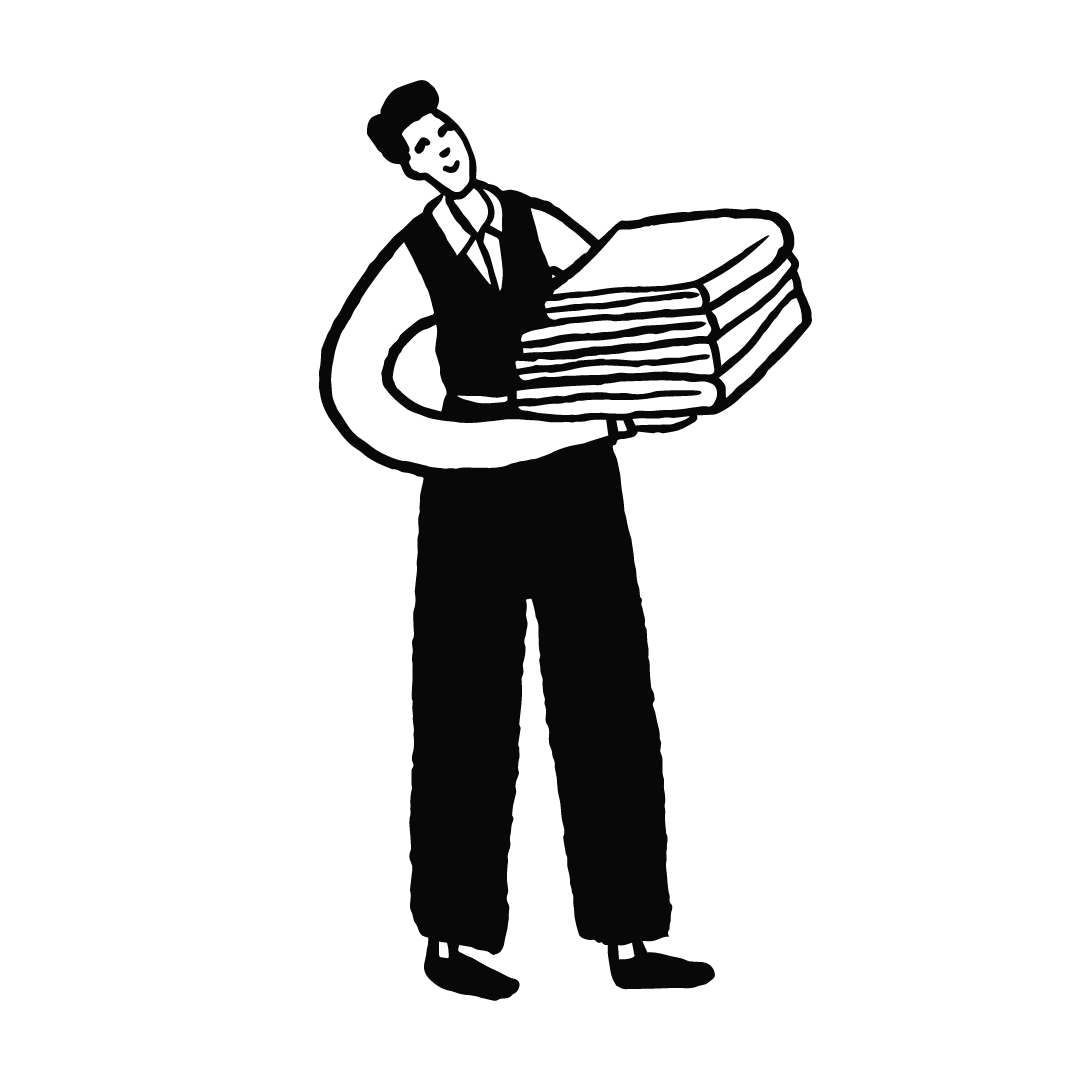
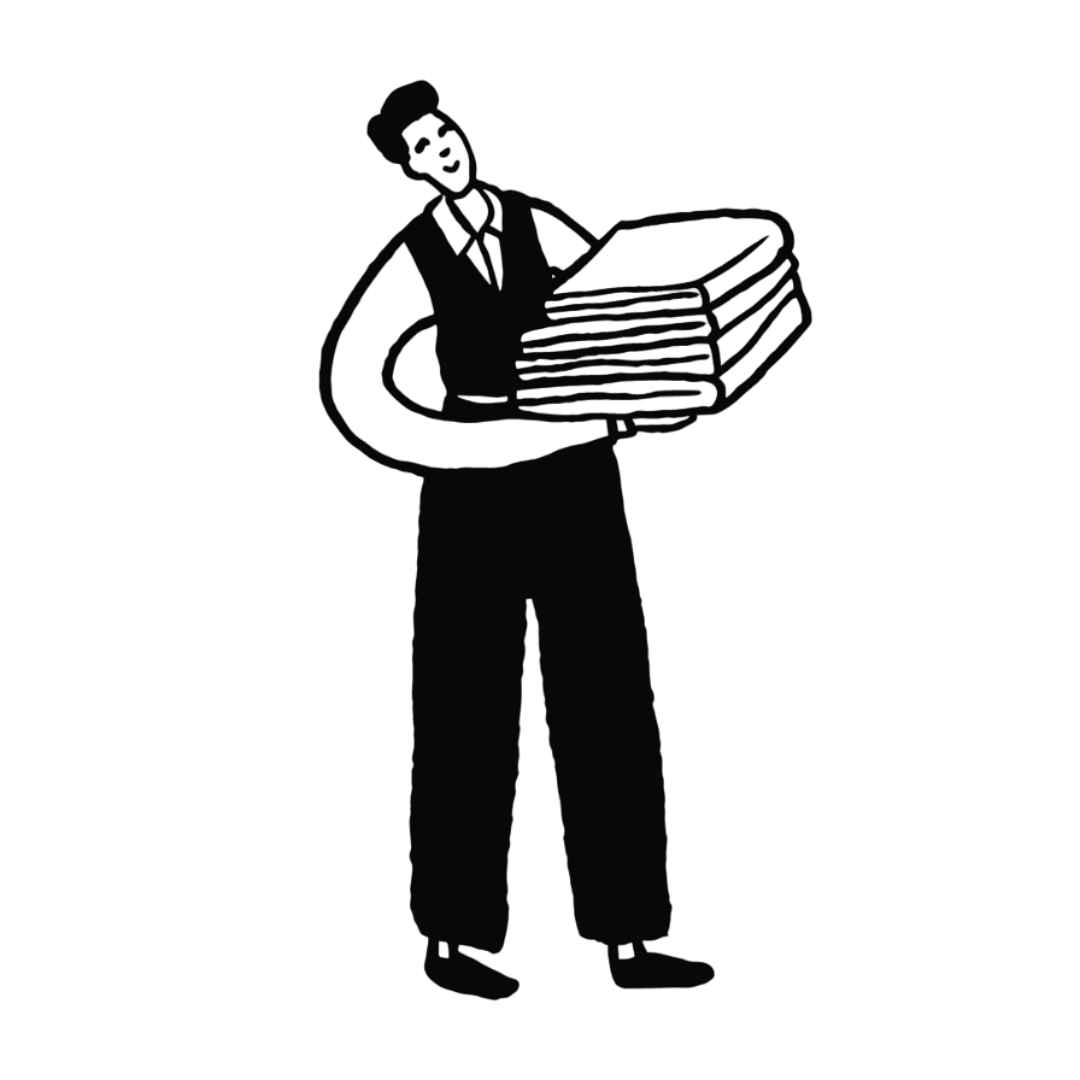
Add the user item in sidebar and an image in documents page

diff --git a/components/ui/dropdown-menu.tsx b/components/ui/dropdown-menu.tsx
@@ -1,27 +1,27 @@
-"use client"
+"use client";
 
-import * as React from "react"
-import * as DropdownMenuPrimitive from "@radix-ui/react-dropdown-menu"
-import { Check, ChevronRight, Circle } from "lucide-react"
+import * as React from "react";
+import * as DropdownMenuPrimitive from "@radix-ui/react-dropdown-menu";
+import { Check, ChevronRight, Circle } from "lucide-react";
 
-import { cn } from "@/lib/utils"
+import { cn } from "@/lib/utils";
 
-const DropdownMenu = DropdownMenuPrimitive.Root
+const DropdownMenu = DropdownMenuPrimitive.Root;
 
-const DropdownMenuTrigger = DropdownMenuPrimitive.Trigger
+const DropdownMenuTrigger = DropdownMenuPrimitive.Trigger;
 
-const DropdownMenuGroup = DropdownMenuPrimitive.Group
+const DropdownMenuGroup = DropdownMenuPrimitive.Group;
 
-const DropdownMenuPortal = DropdownMenuPrimitive.Portal
+const DropdownMenuPortal = DropdownMenuPrimitive.Portal;
 
-const DropdownMenuSub = DropdownMenuPrimitive.Sub
+const DropdownMenuSub = DropdownMenuPrimitive.Sub;
 
-const DropdownMenuRadioGroup = DropdownMenuPrimitive.RadioGroup
+const DropdownMenuRadioGroup = DropdownMenuPrimitive.RadioGroup;
 
 const DropdownMenuSubTrigger = React.forwardRef<
   React.ElementRef<typeof DropdownMenuPrimitive.SubTrigger>,
   React.ComponentPropsWithoutRef<typeof DropdownMenuPrimitive.SubTrigger> & {
-    inset?: boolean
+    inset?: boolean;
   }
 >(({ className, inset, children, ...props }, ref) => (
   <DropdownMenuPrimitive.SubTrigger
@@ -36,9 +36,9 @@ const DropdownMenuSubTrigger = React.forwardRef<
     {children}
     <ChevronRight className="ml-auto h-4 w-4" />
   </DropdownMenuPrimitive.SubTrigger>
-))
+));
 DropdownMenuSubTrigger.displayName =
-  DropdownMenuPrimitive.SubTrigger.displayName
+  DropdownMenuPrimitive.SubTrigger.displayName;
 
 const DropdownMenuSubContent = React.forwardRef<
   React.ElementRef<typeof DropdownMenuPrimitive.SubContent>,
@@ -47,14 +47,14 @@ const DropdownMenuSubContent = React.forwardRef<
   <DropdownMenuPrimitive.SubContent
     ref={ref}
     className={cn(
-      "z-50 min-w-[8rem] overflow-hidden rounded-md border bg-popover p-1 text-popover-foreground shadow-lg data-[state=open]:animate-in data-[state=closed]:animate-out data-[state=closed]:fade-out-0 data-[state=open]:fade-in-0 data-[state=closed]:zoom-out-95 data-[state=open]:zoom-in-95 data-[side=bottom]:slide-in-from-top-2 data-[side=left]:slide-in-from-right-2 data-[side=right]:slide-in-from-left-2 data-[side=top]:slide-in-from-bottom-2",
+      "z-[99999] min-w-[8rem] overflow-hidden rounded-md border bg-popover p-1 text-popover-foreground shadow-lg data-[state=open]:animate-in data-[state=closed]:animate-out data-[state=closed]:fade-out-0 data-[state=open]:fade-in-0 data-[state=closed]:zoom-out-95 data-[state=open]:zoom-in-95 data-[side=bottom]:slide-in-from-top-2 data-[side=left]:slide-in-from-right-2 data-[side=right]:slide-in-from-left-2 data-[side=top]:slide-in-from-bottom-2",
       className
     )}
     {...props}
   />
-))
+));
 DropdownMenuSubContent.displayName =
-  DropdownMenuPrimitive.SubContent.displayName
+  DropdownMenuPrimitive.SubContent.displayName;
 
 const DropdownMenuContent = React.forwardRef<
   React.ElementRef<typeof DropdownMenuPrimitive.Content>,
@@ -65,19 +65,19 @@ const DropdownMenuContent = React.forwardRef<
       ref={ref}
       sideOffset={sideOffset}
       className={cn(
-        "z-50 min-w-[8rem] overflow-hidden rounded-md border bg-popover p-1 text-popover-foreground shadow-md data-[state=open]:animate-in data-[state=closed]:animate-out data-[state=closed]:fade-out-0 data-[state=open]:fade-in-0 data-[state=closed]:zoom-out-95 data-[state=open]:zoom-in-95 data-[side=bottom]:slide-in-from-top-2 data-[side=left]:slide-in-from-right-2 data-[side=right]:slide-in-from-left-2 data-[side=top]:slide-in-from-bottom-2",
+        "z-[99999] min-w-[8rem] overflow-hidden rounded-md border bg-popover p-1 text-popover-foreground shadow-md data-[state=open]:animate-in data-[state=closed]:animate-out data-[state=closed]:fade-out-0 data-[state=open]:fade-in-0 data-[state=closed]:zoom-out-95 data-[state=open]:zoom-in-95 data-[side=bottom]:slide-in-from-top-2 data-[side=left]:slide-in-from-right-2 data-[side=right]:slide-in-from-left-2 data-[side=top]:slide-in-from-bottom-2",
         className
       )}
       {...props}
     />
   </DropdownMenuPrimitive.Portal>
-))
-DropdownMenuContent.displayName = DropdownMenuPrimitive.Content.displayName
+));
+DropdownMenuContent.displayName = DropdownMenuPrimitive.Content.displayName;
 
 const DropdownMenuItem = React.forwardRef<
   React.ElementRef<typeof DropdownMenuPrimitive.Item>,
   React.ComponentPropsWithoutRef<typeof DropdownMenuPrimitive.Item> & {
-    inset?: boolean
+    inset?: boolean;
   }
 >(({ className, inset, ...props }, ref) => (
   <DropdownMenuPrimitive.Item
@@ -89,8 +89,8 @@ const DropdownMenuItem = React.forwardRef<
     )}
     {...props}
   />
-))
-DropdownMenuItem.displayName = DropdownMenuPrimitive.Item.displayName
+));
+DropdownMenuItem.displayName = DropdownMenuPrimitive.Item.displayName;
 
 const DropdownMenuCheckboxItem = React.forwardRef<
   React.ElementRef<typeof DropdownMenuPrimitive.CheckboxItem>,
@@ -112,9 +112,9 @@ const DropdownMenuCheckboxItem = React.forwardRef<
     </span>
     {children}
   </DropdownMenuPrimitive.CheckboxItem>
-))
+));
 DropdownMenuCheckboxItem.displayName =
-  DropdownMenuPrimitive.CheckboxItem.displayName
+  DropdownMenuPrimitive.CheckboxItem.displayName;
 
 const DropdownMenuRadioItem = React.forwardRef<
   React.ElementRef<typeof DropdownMenuPrimitive.RadioItem>,
@@ -135,13 +135,13 @@ const DropdownMenuRadioItem = React.forwardRef<
     </span>
     {children}
   </DropdownMenuPrimitive.RadioItem>
-))
-DropdownMenuRadioItem.displayName = DropdownMenuPrimitive.RadioItem.displayName
+));
+DropdownMenuRadioItem.displayName = DropdownMenuPrimitive.RadioItem.displayName;
 
 const DropdownMenuLabel = React.forwardRef<
   React.ElementRef<typeof DropdownMenuPrimitive.Label>,
   React.ComponentPropsWithoutRef<typeof DropdownMenuPrimitive.Label> & {
-    inset?: boolean
+    inset?: boolean;
   }
 >(({ className, inset, ...props }, ref) => (
   <DropdownMenuPrimitive.Label
@@ -153,8 +153,8 @@ const DropdownMenuLabel = React.forwardRef<
     )}
     {...props}
   />
-))
-DropdownMenuLabel.displayName = DropdownMenuPrimitive.Label.displayName
+));
+DropdownMenuLabel.displayName = DropdownMenuPrimitive.Label.displayName;
 
 const DropdownMenuSeparator = React.forwardRef<
   React.ElementRef<typeof DropdownMenuPrimitive.Separator>,
@@ -165,8 +165,8 @@ const DropdownMenuSeparator = React.forwardRef<
     className={cn("-mx-1 my-1 h-px bg-muted", className)}
     {...props}
   />
-))
-DropdownMenuSeparator.displayName = DropdownMenuPrimitive.Separator.displayName
+));
+DropdownMenuSeparator.displayName = DropdownMenuPrimitive.Separator.displayName;
 
 const DropdownMenuShortcut = ({
   className,
@@ -177,9 +177,9 @@ const DropdownMenuShortcut = ({
       className={cn("ml-auto text-xs tracking-widest opacity-60", className)}
       {...props}
     />
-  )
-}
-DropdownMenuShortcut.displayName = "DropdownMenuShortcut"
+  );
+};
+DropdownMenuShortcut.displayName = "DropdownMenuShortcut";
 
 export {
   DropdownMenu,
@@ -197,4 +197,4 @@ export {
   DropdownMenuSubContent,
   DropdownMenuSubTrigger,
   DropdownMenuRadioGroup,
-}
+};

diff --git a/app/(main)/_components/user-item.tsx b/app/(main)/_components/user-item.tsx
@@ -1,0 +1,71 @@
+"use client";
+
+import React from "react";
+import { Avatar, AvatarFallback, AvatarImage } from "@/components/ui/avatar";
+import {
+  DropdownMenu,
+  DropdownMenuContent,
+  DropdownMenuItem,
+  DropdownMenuLabel,
+  DropdownMenuSeparator,
+  DropdownMenuTrigger,
+} from "@/components/ui/dropdown-menu";
+import { SignOutButton, useUser } from "@clerk/clerk-react";
+import { ChevronsLeftRight } from "lucide-react";
+import { Button } from "@/components/ui/button";
+
+export const UserItem = () => {
+  const { user } = useUser();
+
+  return (
+    <DropdownMenu>
+      <DropdownMenuTrigger asChild>
+        <div
+          role="button"
+          className="flex items-center text-sm p-3 w-full hover:bg-primary/5"
+        >
+          <div className="gap-x-2 flex items-center max-w-[150px]">
+            <Avatar className="h-6 w-6">
+              <AvatarImage src={user?.imageUrl} />
+            </Avatar>
+            <span className="text-start font-medium line-clamp-1">
+              {user?.firstName}&apos;s TS
+            </span>
+          </div>
+          <ChevronsLeftRight className="rotate-90 ml-2 text-muted-foreground h-4 w-4" />
+        </div>
+      </DropdownMenuTrigger>
+      <DropdownMenuContent
+        className="w-80 shadow-lg "
+        align="start"
+        alignOffset={12}
+        forceMount
+      >
+        <div className="flex flex-col space-y-4 p-2">
+          <p className="text-xs font-medium leading-none text-muted-foreground">
+            {user?.emailAddresses[0].emailAddress}
+          </p>
+
+          <div className="flex items-center gap-x-2">
+            <div className="rounded-md bg-secondary p-1">
+              <Avatar className="h-8 w-8">
+                <AvatarImage src={user?.imageUrl} />
+              </Avatar>
+            </div>
+
+            <div className="space-y-1">
+              <p className="text-sm line-clamp-1">{user?.fullName}&apos;s TS</p>
+            </div>
+          </div>
+        </div>
+        <DropdownMenuSeparator />
+        <DropdownMenuItem
+          asChild
+          className="w-full cursor-pointer text-muted-foreground"
+        >
+          <SignOutButton>Log out</SignOutButton>
+        </DropdownMenuItem>
+      </DropdownMenuContent>
+    </DropdownMenu>
+  );
+};

diff --git a/components/ui/avatar.tsx b/components/ui/avatar.tsx
@@ -1,0 +1,50 @@
+"use client"
+
+import * as React from "react"
+import * as AvatarPrimitive from "@radix-ui/react-avatar"
+
+import { cn } from "@/lib/utils"
+
+const Avatar = React.forwardRef<
+  React.ElementRef<typeof AvatarPrimitive.Root>,
+  React.ComponentPropsWithoutRef<typeof AvatarPrimitive.Root>
+>(({ className, ...props }, ref) => (
+  <AvatarPrimitive.Root
+    ref={ref}
+    className={cn(
+      "relative flex h-10 w-10 shrink-0 overflow-hidden rounded-full",
+      className
+    )}
+    {...props}
+  />
+))
+Avatar.displayName = AvatarPrimitive.Root.displayName
+
+const AvatarImage = React.forwardRef<
+  React.ElementRef<typeof AvatarPrimitive.Image>,
+  React.ComponentPropsWithoutRef<typeof AvatarPrimitive.Image>
+>(({ className, ...props }, ref) => (
+  <AvatarPrimitive.Image
+    ref={ref}
+    className={cn("aspect-square h-full w-full", className)}
+    {...props}
+  />
+))
+AvatarImage.displayName = AvatarPrimitive.Image.displayName
+
+const AvatarFallback = React.forwardRef<
+  React.ElementRef<typeof AvatarPrimitive.Fallback>,
+  React.ComponentPropsWithoutRef<typeof AvatarPrimitive.Fallback>
+>(({ className, ...props }, ref) => (
+  <AvatarPrimitive.Fallback
+    ref={ref}
+    className={cn(
+      "flex h-full w-full items-center justify-center rounded-full bg-muted",
+      className
+    )}
+    {...props}
+  />
+))
+AvatarFallback.displayName = AvatarPrimitive.Fallback.displayName
+
+export { Avatar, AvatarImage, AvatarFallback }

diff --git a/app/(main)/(routes)/documents/page.tsx b/app/(main)/(routes)/documents/page.tsx
@@ -1,14 +1,37 @@
+"use client";
+
+import { Button } from "@/components/ui/button";
+import { useUser } from "@clerk/clerk-react";
+import { PlusCircle } from "lucide-react";
+import Image from "next/image";
 import React from "react";
 
 const DocumentsPage = () => {
+  const { user } = useUser();
+
   return (
-    <div className="h-full">
-      <div className="h-full bg-neutral-900 flex items-center justify-center border-b-2 border-foreground">
-        First
-      </div>
-      <div className="h-full bg-neutral-900 flex items-center justify-center">
-        Second
-      </div>
+    <div className="h-full flex flex-col items-center justify-center space-y-4">
+      <Image
+        src="/images/employer.png"
+        alt="Employer Icon"
+        width="300"
+        height="300"
+        className="dark:hidden"
+      />
+      <Image
+        src="/images/employer-dark.png"
+        alt="Employer Icon"
+        width="300"
+        height="300"
+        className="hidden dark:block"
+      />
+      <h2 className="text-lg font-medium">
+        Welcome to {user?.firstName}&apos;s Think Space
+      </h2>
+      <Button>
+        <PlusCircle className="h-4 w-4 mr-2" />
+        Create a note
+      </Button>
     </div>
   );
 };

diff --git a/app/(main)/_components/navigation.tsx b/app/(main)/_components/navigation.tsx
@@ -5,6 +5,7 @@ import { ChevronsLeft, MenuIcon } from "lucide-react";
 import { usePathname } from "next/navigation";
 import React, { ElementRef, useEffect, useRef, useState } from "react";
 import { useMediaQuery } from "usehooks-ts";
+import { UserItem } from "./user-item";
 
 export const Navigation = () => {
   const pathname = usePathname();
@@ -118,7 +119,7 @@ export const Navigation = () => {
         </div>
 
         <div>
-          <p>Action items</p>
+          <UserItem />
         </div>
         <div className="mt-4">
           <p>Documents</p>
